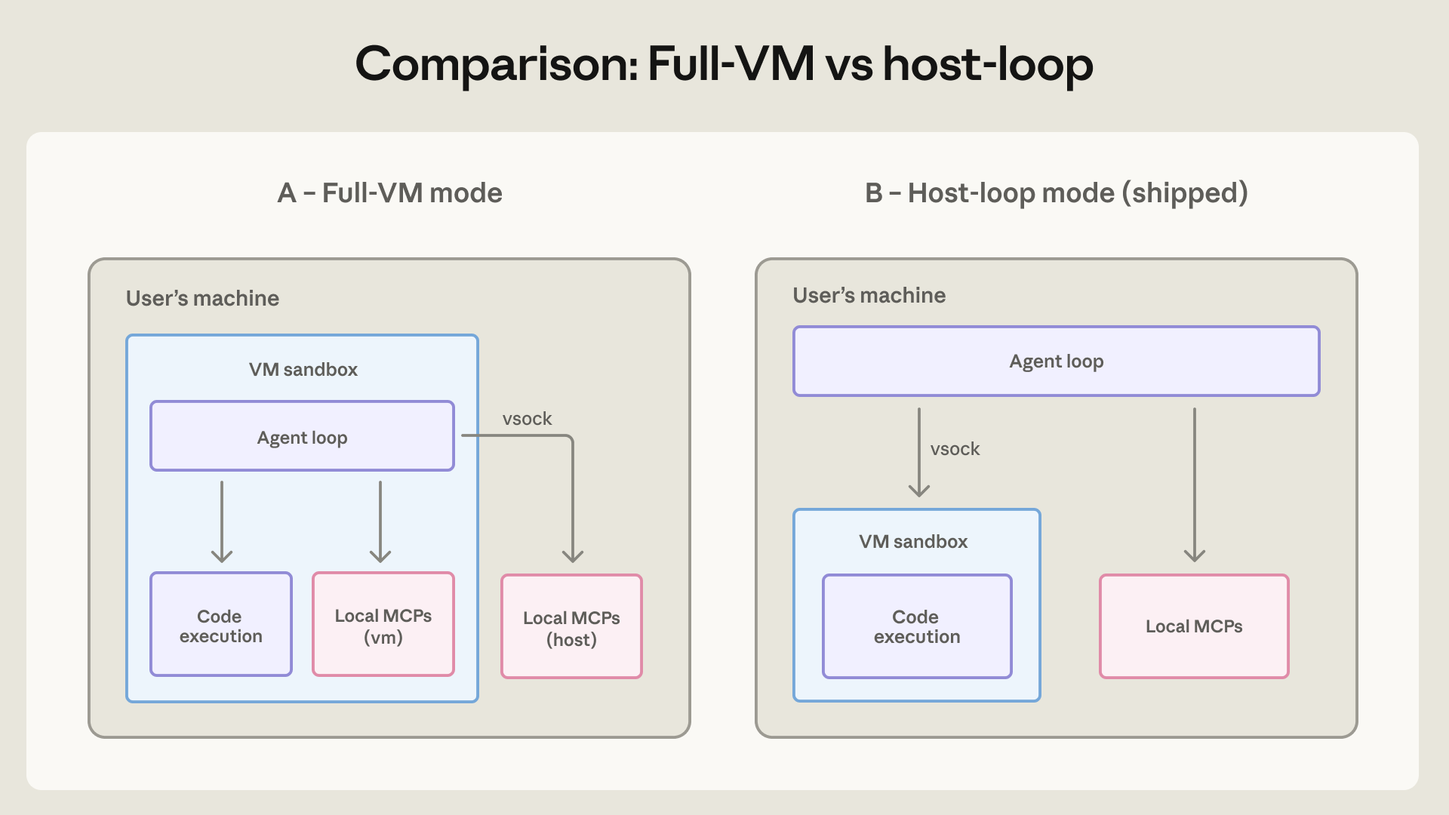
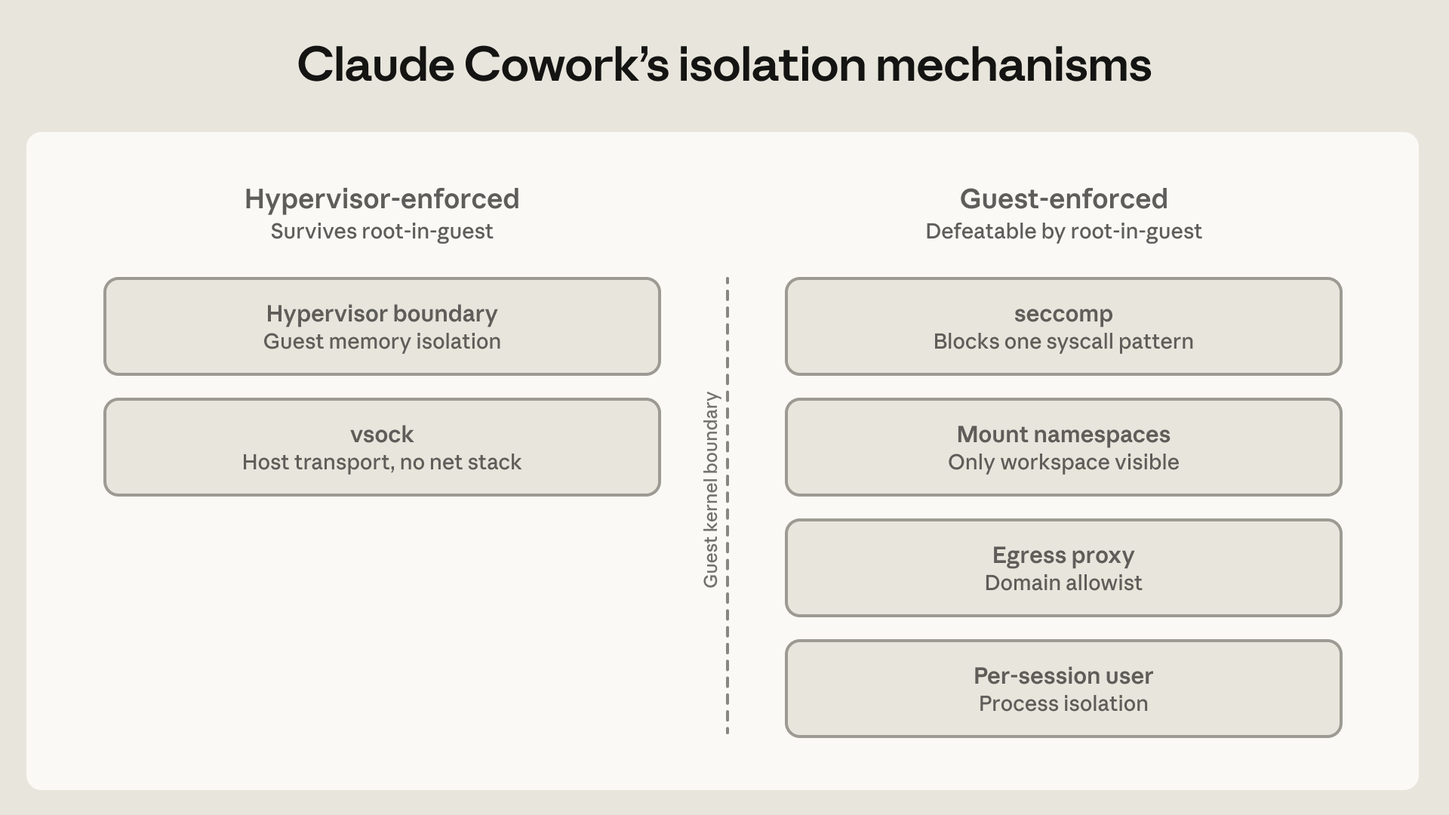
vault: capture Autobrowse (Browserbase) article from @kylejeong X post

diff --git a/Agents/Skills/Autobrowse iterates browser agents to convergence then graduates the winning strategy into a durable SKILL.md, ending the per-site rediscovery tax.md b/Agents/Skills/Autobrowse iterates browser agents to convergence then graduates the winning strategy into a durable SKILL.md, ending the per-site rediscovery tax.md
@@ -1,0 +1,319 @@
+---
+created: 2026-05-28
+description: Browserbase's Autobrowse workflow runs browser agents iteratively on a real task until the approach converges, then graduates the winning strategy into a human-readable SKILL.md file that any future agent or engineer can load and reuse — converting one expensive exploration run into a compounding shared library.
+source: https://x.com/kylejeong/status/2052103973377867913
+type: framework
+---
+
+## Key Takeaways
+
+- **The real bottleneck for browser agents is memory, not model capability** — agents re-discover every site from scratch on every run, paying the full exploration cost each time regardless of how capable the model gets. Autobrowse argues that [[most agent bottlenecks are actually memory problems not model or orchestration problems]] applies specifically to browser automation: even a perfect model still has to re-discover undocumented APIs, JS-gating patterns, and multi-step flows unless past discoveries are persisted somewhere humans and agents can both read.
+
+- **Autobrowse's iteration loop produces a SKILL.md, not a trace or embedding** — the 7-step loop (Objective → Run → Study → Iterate → Converge → Graduate) outputs a readable markdown file, which is what makes it viable as an enterprise handoff. An engineer can read it; a non-technical PM can roughly follow it. This contrasts with [[trace learning turns agent execution history into reusable strategies that compound performance over time]] (trace-based retrieval) and [[memento-skills turns executable skill folders into evolving non-parametric memory that lets frozen LLMs learn continuously from deployment]] (frozen model external memory) — Autobrowse skips vector retrieval entirely and produces a directly executable artifact. Same artifact shape as [[Browserbase's bb agent generalizes knowledge work through four building blocks - sandbox, credential-brokering proxy, loadable skills, and Slack|bb's loadable skills]].
+
+- **Regime-matching discipline prevents Autobrowse from becoming a hammer** — it is the wrong tool for deterministic parsing. Four iterations and ~$24 spent on a 167-row static HTML state catalog proved this: the model's per-turn output cap truncated its reasoning on a problem that didn't reward cleverness. The lesson gets baked into the graduated skill itself as a "probe with fetch first" rule. Similar to [[autoresearch can auto-improve any agent skill by testing and scoring in a loop|Karpathy's autoresearch]], but Autobrowse explicitly codifies the escape hatch to deterministic code.
+
+- **The Craigslist benchmark shows correctness is the real win over speed and cost** — the no-skill run ($0.22, 71s) returned 0 neighborhood-matched results for 60 city-wide noise listings; the graduated skill ($0.12, 27s) returned 2 exact North Beach / Russian Hill matches. The cost and time improvements are meaningful, but the correctness gain — discovering the undocumented `sapi.craigslist.org` JSON API and the lat/lon bbox filter — is what the skill preserved for every future run. See also [[EvoSkill discovers reusable agent skills through iterative failure analysis outperforming static prompts and transferring zero-shot]] for the failure-analysis parallel.
+
+- **Human-authored and Autobrowse-authored skills are the same artifact type** — once a skill graduates, nothing about the agent's execution cares whether a human or another agent wrote it. This makes Autobrowse a factory for browser capabilities that scales beyond individual engineering bandwidth, and points toward recursive self-improvement: the same loop that learns Craigslist can be applied to improve Autobrowse's own harness. The same thesis appears in [[The bitter lesson of agent harnesses is your helpers are abstractions too - Browser-Use ships a 600-line CDP + SKILL.md harness|Browser-Use's SKILL.md harness]].
+
+## External Resources
+
+- [Embedded tweet (Autobrowse demo)](https://x.com/i/status/2047100550446280792) — short demo embedded in the article showing Autobrowse in action
+- [Browserbase bb agent post](https://x.com/kylejeong/status/2044878529666662616) — Kyle Jeong's earlier article on how every internal Browserbase workflow runs through one generalist agent that loads markdown skills on demand
+- [Public Browse CLI skills repo](https://x.com/kylejeong/status/2052103973377867913) — the public directory of graduated browser skills referenced in the article
+
+## Original Content
+
+> [!quote]- Source Material
+> **@kylejeong (Kyle Jeong) — 2026-05-06**
+> **Article: Autobrowse: The Mythos moment for Browser Agents is here**
+>
+> TL;DR Browser agents have an amnesia problem. They re-discover every site from scratch on every run, paying the full discovery tax forever. Autobrowse fixes that by letting an agent iterate on a real task until it converges, then graduating the winning approach into a durable, reusable skill. That skill is memory the next agent, teammate, or customer can pick up and run without "re-learning" what's already been learned.
+>
+> Huge credit to @_shubhankar for creating Autobrowse internally, and helping write this article.
+>
+> ---
+>
+> ## The genius without a hippocampus
+>
+> If you've shipped a browser agent into production, you already know the shape of this problem.
+>
+> The first run on a new site is exciting. The agent wanders around, figures out the page, eventually completes the task. The second run looks almost identical. The hundredth run is depressing. By then you've paid for the same exploration a hundred times, the cost graph is a straight line going up, and you still don't have a clean artifact you can hand to a teammate to say "this is how we do this job."
+>
+> Real sites are messy. They render differently for different user agents, gate content behind JavaScript, hide the data you actually want behind an undocumented JSON endpoint, throw captchas when they don't recognize the session, and sometimes redesign their flow on a Tuesday. A generic agent loop copes with all of that fluently in the moment, then forgets everything once the session closes. The reasoning that solved Monday's problem evaporates along with the session.
+>
+> The real bottleneck for browser agents in production is memory, in a form humans and agents can both read and trust. Reasoning has stopped being the constraint.
+>
+> ---
+>
+> ## What is Autobrowse?
+>
+> Autobrowse is a workflow that uses AI to improve AI. You give an agent a real task on a real site. It runs the task end to end, studies the trace it produced, iterates on its strategy, and keeps going until the workflow becomes reliable rather than lucky. Once it converges, it graduates the winning approach into a reusable skill: a markdown file plus the deterministic glue (CLI calls, fetches, selectors, helper scripts) needed to repeat the job.
+>
+> [Embedded Tweet: https://x.com/i/status/2047100550446280792]
+>
+> This is similar to Karpathy's autoresearch harness, but for learning faster and cheaper browser skills. The first run is expensive on purpose, it's the run that pays for everything that comes after.
+>
+> The artifact is the point. Every Autobrowse run produces a durable markdown file any future agent can load and execute, on top of whatever value you got from the run itself.
+>
+> ---
+>
+> ## How it works:
+>
+> The learning loop:
+>
+> The core loop is simple:
+>
+> 1. Objective. Hand the agent a real task on a real site ("book a 7pm dinner reservation at this restaurant on OpenTable").
+>
+> 2. Run. Let the agent attempt the task end to end against a live browser.
+>
+> 3. Study. The agent reads its own trace. Where did it stall? Where did it guess? Where did it spend tokens it didn't need to?
+>
+> 4. Strategy. The run's "outer loop" maintains a strategy.md file, basically a scratchpad where the agent dumps observations after each iteration (what worked, what broke, what to try next, what to stop doing). On the next iteration, the agent reads strategy.md first and uses it as context, so improvements compound instead of resetting every run.
+>
+> 5. Iterate. Refine the strategy based on those notes. Drop steps that didn't pull weight. Lean on deterministic helpers (browse fetch, browse search, custom Python) wherever possible.
+>
+> 6. Converge. Once consecutive iterations stop yielding meaningful improvements in cost or turn count, short-circuit.
+>
+> 7. Graduate. Write out a SKILL.md plus any helper files into the public skills repo.
+>
+> In practice, we cap iterations low (~ 3 to 5) and short-circuit aggressively. The goal is a reliable, cheap path that's good enough to be reused, (technically short of any theoretical global optimum).
+>
+> *Autobrowse learning loop: Objective → Run → Study feeds into Iterate → Converge check → Graduate to SKILL.md*
+> ![[kylejeong-867913-001.jpg]]
+>
+> *Full loop with convergence gate: when consecutive runs stop improving on cost and turn count, the strategy graduates to SKILL.md + helpers in the public skills repo*
+> ![[kylejeong-867913-002.png]]
+>
+> The output?
+>
+> What comes out the other side is a small, readable file. No transcript, no vector of embeddings, no screenshot reel. Just markdown (just skim this):
+>
+> ```markdown
+> ---
+> name: "craigslist-search-listings"
+> title: "Craigslist Search Listings"
+> description: "Search Craigslist in a given city and category for listings matching a query, returning each listing's title, price, location, posting date, and listing URL."
+> website: "craigslist.org"
+> category: "marketplace"
+> tags: ["craigslist", "marketplace", "listings", "search"]
+> status: "autobrowsed-run-004 + prod-validated-002"
+> source: "autobrowse + browser-trace · 4 iters · converged 2026-04-30 · cross-region prod validation 2026-05-01 (NY/SF/Boston, cta+apa) · postal-override discovery 2026-05-01 (Chicago/NYC, mca+apa)"
+> updated: "2026-05-01"
+> recommended_method: "api"
+> alternative_methods:
+>   - method: "browser"
+>     rationale: "When the JSON API is rate-limited or blocked (rare — no auth or anti-bot today), fall back to browsing the city subdomain's /search/{category} page and extracting listings from the rendered text + anchor hrefs."
+> ---
+>
+> # Craigslist Search Listings — Browser Skill
+>
+> ## Purpose
+>
+> Return a list of Craigslist postings matching a query in a given city and category — title, price, location, posting time, lat/lon, posting ID, and canonical listing URL. Read-only; never posts or edits.
+>
+> ## When to Use
+>
+> - Daily / hourly monitoring of new listings matching a query.
+> - Bulk extraction across multiple cities or categories.
+> - Anywhere you'd otherwise scrape Craigslist HTML — the API is faster, cheaper, and structurally more reliable.
+>
+> ## Workflow
+>
+> The Craigslist web UI is a thin client over a public JSON API at `https://sapi.craigslist.org` — no auth, cookies, session state, or anti-bot stealth. Send a `Referer` header matching the target city subdomain; if your outbound IP is in a different region than the target city, add `postal=<zip>&search_distance=<mi>` to the query — the API geo-scopes by IP only when no `postal` is supplied (see the gotcha below). **A residential proxy is not required.** Lead with the API path; the browser path works as a fallback but pays a ~100× cost premium because the search page is fully JS-rendered (`browse snapshot` returns 0 a11y refs and harvesting per-listing URLs costs ~3 turns each).
+>
+> 1. **Pick city + category** (and optionally subarea). City is the Craigslist subdomain (`sfbay`, `newyork`, `losangeles`, `seattle`, ...). Category is the search-path abbreviation (`sss` for-sale-all, `cta` cars+trucks, `apa` apartments, `ggg` for-sale-by-owner, etc.). To scope to a specific subarea (city-within-region), prefix the category in `searchPath` — e.g. `searchPath=sfc/apa` for SF-proper apartments, `searchPath=eby/cta` for East Bay cars. Subarea codes are listed in each response's `data.decode.locations[i][2]`. Subarea-scoping is significantly more efficient than fetching region-wide and filtering client-side (e.g. `apa` returns 9,798 bay-wide vs. 253 for `sfc/apa`).
+>
+> 2. **First page**:
+>
+>
+> GET https://sapi.craigslist.org/web/v8/postings/search/full
+>
+> ?searchPath={cat}
+>
+> &query={q}
+>
+> &sort={date|rel|priceasc|pricedsc}
+>
+> &batch=1-0-360-1-0
+>
+> &lang=en&cc=us
+>
+> Referer: https://{city}.[craigslist.org/](http://craigslist.org/)
+>
+>
+>    Returns JSON with `data.totalResultCount`, `data.items[]`, and decode tables under `data.decode`. Confirm the response is scoped to the right region via `data.areas` (e.g. `{"1": {"name": "newyork"}}`) — if it shows the wrong city, add `postal=<zip>&search_distance=<mi>` (any ZIP in the target metro) to override the IP-based geo-scope.
+>
+>    **Common filter params** (append as query args; check `data.humanReadableParams` to confirm acceptance): `min_price`, `max_price`, `min_bedrooms`, `max_bedrooms`, `min_bathrooms`, `bundleDuplicates=1`, `hasPic=1`, `postal=<zip>`, `search_distance=<mi>`, `availabilityMode=available`, `auto_make_model=<text>`, `min_auto_year`/`max_auto_year`, `min_auto_miles`/`max_auto_miles`. Unrecognized params are silently dropped.
+>
+> 3. **Decode each item**. `data.items[]` is an array of positional arrays. **Critical: many fields are offsets / lookup keys, not absolute values** — always read against `data.decode.*`:
+>    - `item[0]` — `postingIdOffset`. Absolute id = `data.decode.minPostingId + item[0]`.
+>    - `item[1]` — `postedDateOffset` (seconds). Absolute epoch = `data.decode.minPostedDate + item[1]`.
+>    - `item[2]` — `categoryId` (integer). Maps to a 3-letter sub-category abbreviation (`cat3`) used in canonical URLs. The mapping is **not** in the response — it's a fixed Craigslist enum. Observed during iter-2 verification: `68 → bik` (bicycles), `93 → spo` (sporting goods), `122 → pts` (parts), `197 → bop` (bicycle parts/accessories). Other categories will need to be back-derived from the `data.decode` block or a click-through verification.
+>    - `item[3]` — price as integer (0 or missing for free items).
+>    - `item[4]` — `"locIdx:hoodDescIdx:hoodIdx~lat~lon"`. Look up `data.decode.locations[locIdx]` → `[1, city, subareaAbbr]`; `data.decode.locationDescriptions[hoodDescIdx]` → display location string; parse `lat~lon` for coordinates.
+>    - **Title** — last array element that is a plain string (i.e. not a tagged `[code, ...]` block). For `cta` (cars+trucks) this is `item[-1]`. For `apa` (apartments) and other housing categories, a trailing `[5, beds, sqft]` housing-meta block pushes the title earlier — iterate from the end and take the first plain string.
+>    - Tagged blocks `[code, value]` mid-array: `code === 5` is `[beds, sqft]` (housing categories); `code === 6` is the URL slug; `code === 10` is the formatted price string ("$1,350"); other codes carry image refs and metadata.
+>
+> 4. **Construct canonical post URL**:
+>
+>
+> https://{city}.[craigslist.org/{subareaAbbr}/{cat3}/d/{slug}/{postingId}.html](http://craigslist.org/{subareaAbbr}/{cat3}/d/{slug}/{postingId}.html)
+>
+>
+>    - `postingId` from step 3 (offset + minPostingId)
+>    - `subareaAbbr` from `data.decode.locations[locIdx][2]` (e.g. `nby`, `sby`, `sfc`, `eby`, `pen`)
+>    - `cat3` from the categoryId enum (step 3)
+>    - `slug` from the `[6, ...]` tagged block
+>
+>    **Wrong `cat3` will 404**. If you don't know the mapping for a categoryId, fall back to `https://{city}.craigslist.org/search/{cat}?postingId={postingId}` which redirects to the canonical URL.
+>
+> 5. **Paginate** (only if results > 360):
+>
+>
+> GET https://sapi.craigslist.org/web/v8/postings/search/batch
+>
+> ?batch=1-{OFFSET}-1080-1-0-{startTs}-{endTs}
+>
+> &cacheId={cacheId from step 2}
+>
+> Referer: https://{city}.[craigslist.org/](http://craigslist.org/)
+>
+>
+>    Increment `OFFSET` in steps of 1080. `startTs`/`endTs` are the `data.cacheTs` and current epoch.
+>
+> ## Site-Specific Gotchas
+>
+> - **Geo-redirect on bare domain**: `https://www.craigslist.org/` redirects to a city based on the request IP (in our trace, `provo.craigslist.org`). Always open `{city}.craigslist.org` directly.
+> - **API geolocates by request IP — `postal=<zip>&search_distance=<mi>` overrides it**: No auth, no cookies, no anti-bot — but if no `postal` is supplied, the API scopes results to the city corresponding to the request's source IP, not the `Referer` header (e.g. a NY query from an SF IP silently returns `{"1": {"name": "sfbay"}}` results). Adding `postal=<zip>` for any ZIP in the target metro plus `search_distance=<mi>` forces the result set to that region. Verified 2026-05-01 with direct curl from an SF IP returning correct Chicago (`postal=60601&search_distance=50`, 0.21s, 41 results) and NYC (`postal=10001&search_distance=10`, 2.19s, 475 results) listings. **A residential proxy is not required** — `bb fetch --proxies` *without* `postal` is also geo-locked to sfbay (proxy doesn't change the source-IP region for this API), and adding `postal` to a direct curl is ~8× faster than the proxy path (0.21s vs 1.63s on the same Chicago query). Always verify scope via `data.areas` in the response.
+> - **Snapshot returns 0 refs on `/search/`**: The search page is fully JS-rendered. Don't use `browse snapshot`/`click` to enumerate listings.
+> - **Compact response format**: `data.items[]` uses positional arrays + `data.decode.*` lookup tables to keep the response small. Don't expect named fields per item — decode by position.
+> - **Pagination batch sizes**: First page is ~360 (`batch=1-0-360-1-0`); subsequent batches are 1080 each (`batch=1-OFFSET-1080-1-0`).
+> - **Free items have no price**: `item[3]` may be `0` or absent.
+> - **Posting time precision**: The rendered page shows relative ("< 1 hr ago"); absolute epoch = `data.decode.minPostedDate + item[1]`.
+> - **`item[0]` is NOT the postingId** — it's an offset from `data.decode.minPostingId`. Naïvely treating `item[0]` as the postingId produces 404s.
+> - **`data.decode.locations` indexing is per-response, not stable.** Iter-3 saw `locations[1] → ["sfbay","sfc"]`; iter-4 saw `locations[1] → ["sfbay","eby"]` for the same city/query. The decode block is rebuilt per cache TTL — **always look up `locations[locIdx]` from the response in hand**, never cache or hardcode the table.
+> - **Neighborhood labels are unreliable**: `data.decode.locationDescriptions` varies per response and per category. The same neighborhood may appear under different label-table indices across responses, may be missing in some categories (e.g. "Russian Hill" shows up in `apa` but is absent from `cta` decode tables), and is sometimes replaced by a generic city-level label by the poster. For neighborhood-scoped searches, use **lat/lon bounding-box matching** on `item[4]`'s coordinates as a fallback or supplement to label-string matching. Example bbox for North Beach + Russian Hill: `lat 37.794–37.810, lon -122.425 to -122.404`.
+> - **Categories are an undocumented enum** — the response decode tables don't include the `categoryId → cat3` mapping; observed values across iters: `68→bik, 93→spo, 101→foa, 122→pts, 197→bop, 5→fua` (and likely many more for non-bicycle queries). The redirect URL `https://{city}.craigslist.org/search/{cat}?postingId={id}` is the safest fallback when an unknown categoryId is encountered.
+> - **Rate-limit self-imposed**: No formal block but Craigslist throttles aggre
+> ```
+>
+> If the agent discovered an undocumented JSON endpoint, that endpoint is in there. If a particular form needs a small wait before submission, that's in there too. If a domain-specific helper (`helpers/amazon.py`, `helpers/opentable.py`, `helpers/sf-portal.py`) is worth keeping around, it gets checked in next to the skill.
+>
+> This is the same shape we use inside `bb`, our internal generalist agent. In our post on [how we build agents at Browserbase](https://x.com/kylejeong/status/2044878529666662616), we wrote about how every internal workflow (feature requests, session investigations, PRs, sales triage) runs through one agent that loads small markdown skills on demand. The general loop stays simple. The domain knowledge lives in skills, where it can be read, edited, versioned, and reused.
+>
+> Autobrowse pushes that idea one layer further: the agent writes its own skill, learned by actually doing the task.
+>
+> The hand-written skills inside `browse` and the Autobrowse-graduated skills inside the public Browse CLI ecosystem are, importantly, the same kind of artifact. Once a skill exists, nothing about how an agent loads or runs it cares whether a human or another agent wrote it.
+>
+> ---
+>
+> ## What is it good at?
+>
+> Autobrowse shines on sites that genuinely require exploration.
+>
+> - Hidden or undocumented APIs that aren't visible from the rendered page but show up in network traffic.
+> - Heavy client-side rendering, where the "real" content only appears after a sequence of interactions.
+> - Multi-step login or wizard flows, where the right path isn't obvious from the first screen.
+> - Any UI where the shortest reliable path is non-trivial enough that a human reverse-engineering it would take a couple of hours.
+> - Token-saving opportunities where parts of the loop are redundant (e.g. skipping `browse screenshot` when the UI isn't changing meaningfully).
+>
+> For example, we used Autobrowse to play around with a federal grants portal and surface an undocumented JSON endpoint that returned every current grant in a single call. What looked like a 28-page scrape collapsed into a single `browse fetch`, and that discovery is now baked into the graduated skill so we never have to re-find it.
+>
+> This is the recurring pattern that makes the whole approach worth investing in: an agent tries something a person never would, and finds something a person would never see.
+>
+> ---
+>
+> ## A concrete benchmark: Craigslist
+>
+> A clear internal benchmark we've shared so far is Craigslist.
+>
+> Traditional Claude Code loop: ~$0.22, ~71s
+> Graduated Autobrowse skill: ~$0.12, 27s
+>
+> The shape matters more than the absolute numbers. The first run on the site costs about what you'd expect from a generic agent loop. The end skill changes the unit economics of every subsequent run by an order of magnitude or more, because it encodes the shortest reliable path the agent could find and reuses it instead of re-deriving it.
+>
+> We see the same shape on smaller tasks. On an early form-fill experiment, cost dropped from $1.40/run to $0.24/run in four iterations, just by letting the agent notice and remove the parts of its own approach that weren't pulling weight.
+>
+> *Craigslist benchmark: raw WebFetch run vs /craigslist-search-listings graduated skill — the key win is correctness (0 vs 2 real neighborhood matches), not just speed or cost*
+> ![[kylejeong-867913-003.jpg]]
+>
+> ---
+>
+> ## Where Autobrowse breaks
+>
+> It would be easy to oversell this. Autobrowse is genuinely strong on a specific shape of problem and genuinely the wrong tool on another. The discipline of not using Autobrowse is part of using it well.
+>
+> Autobrowse is not the right tool when the task is deterministic parsing. We learned this the hard way against a 167-row static HTML state catalog. The data was right there in the markup. No JavaScript, no auth, no anti-bot, just rows.
+>
+> We threw Autobrowse at it anyway, because the framing of "let the agent figure it out" is seductive. Four iterations and ~$24 later, the loop still hadn't returned all 167 rows in a single output. The model's per-turn output cap kept truncating its reasoning, and the iteration loop kept trying to be clever about a problem that didn't reward cleverness.
+>
+> Once we recognized the regime mismatch, the agent pivoted to ~200 lines of deterministic Python with `browse fetch` and BeautifulSoup. Sub-second runtime, zero inference cost, all 167 rows surfaced.
+>
+> The lesson got written into the skill itself:
+>
+> ```bash
+> # Step 1: probe with fetch first.
+> browse fetch "<https://example.gov/programs>"
+> # If the data comes back cleanly in the response, write the parser.
+> # If the response is empty / dynamic / gated, escalate to Autobrowse.
+> ```
+>
+> Browser agents come in different agency levels, from a static script with no LLM in the loop, through router-style and tool-using agents, all the way up to fully autonomous loops that can spawn other agents and define their own tools. Choosing the right level is a real engineering decision.
+>
+> Autobrowse sits at the high-agency end of that spectrum, and like any high-agency tool, you reach for it once the cheaper, more deterministic options have given up.
+>
+> ---
+>
+> ## Why this changes workflows
+>
+> A skill operates as a customer handoff, with all the weight that implies.
+>
+> Today, when an agent succeeds at a job, the customer's engineering team gets a trace, maybe a session replay, maybe a paragraph of natural-language reasoning. None of those are legible to the people who actually own the workflow.
+>
+> A skill is legible. It's durable, debuggable, human-auditable, and ownable. An engineer can read it, edit it, and commit it. A non-engineer (a technical PM, a VP of technology, a grants manager who knows their portal inside out) can also read it and roughly understand what the agent is doing without ever touching code.
+>
+> We go from "just trust the agent's output" to "read the agent's playbook." That, in our view, is the thing that makes browser agents robust enough to live inside a serious enterprise workflow rather than awkwardly next to it.
+>
+> The compounding effect matters too. Each new site an agent encounters yields one more durable skill. The library grows. The agent gets cheaper and faster on the long tail of repetitive workflows because it stops paying the discovery tax.
+>
+> Autobrowse already functions as a factory for browser-agent capabilities, well beyond what any single agent could ship on its own. A single Autobrowse skill is useful. A growing public directory of them, accessible to anyone running a browser agent, is the actual prize.
+>
+> ---
+>
+> ## What we're working on next
+>
+> **Smarter stopping**
+>
+> Right now we cap iterations at a small number and short-circuit when consecutive runs converge in cost and turn count. It's a reasonable heuristic, but a blunt one. We're letting the agent reason about its own convergence more explicitly, comparing not just cost and turns but the structure of its trace across runs.
+>
+> Some of Autobrowse's most useful wins (like the federal-portal JSON endpoint) come from the agent randomly varying its approach and stumbling onto a much shorter path. We don't want to optimize that variance away too aggressively.
+>
+> **Better priors about how to explore**
+>
+> We want to make sure the agent reaches for our `fetch` and `search` primitives before spawning a full browser session. A lot of what looks like exploration can be answered with one fetch.
+>
+> For more advanced tasks, it's reasonable to let the agent inspect browser traces, network events, and CDP logs so it can discover internal APIs by watching network requests rather than guessing at them from the rendered DOM.
+>
+> **Recursive Autobrowse**
+>
+> The most exciting direction is recursive: Autobrowse improving Autobrowse. Today the iteration loop, the convergence heuristic, and the skill template are mostly hand-crafted. The same way we use Autobrowse to graduate skills for individual sites, we can use it to graduate improvements to its own harness.
+>
+> Better prompts for the iteration step. Better priors for which primitives to reach for first. Better templates for what the final skill should look like for a given class of task.
+>
+> **The bigger picture**
+>
+> A dominant story about browser agents right now is that they'll get good when the underlying models get good. We're one Anthropic or OpenAI release away from agents that just work on the web. We don't entirely buy that.
+>
+> Even a perfect model still has to discover (on every new site) what a perfect model would already know if it had been there before. Without a place to put what the agent learns, every run is a fresh start.
+>
+> The real bottleneck is memory, in a form humans and agents can both understand and trust.
+>
+> → Kyle
+>
+> ---
+>
+> Engagement: 881 likes | 67 retweets | 21 replies
+> [Original post](https://x.com/kylejeong/status/2052103973377867913)

diff --git a/Agents/moc - Agents.md b/Agents/moc - Agents.md
@@ -182,6 +182,7 @@ Agent skill design, authoring, testing, and lifecycle management. SKILL.md patte
 - [[predict-RLM uses GEPA to recursively optimize agent skills reaching SpreadsheetBench top-5 as open source]]
 - [[GEPA prompt optimizer beats reinforcement learning with 35x fewer rollouts by reflecting on natural-language execution traces]] — Agrawal/Khattab et al. (arXiv:2507.19457): reflective Genetic-Pareto prompt evolution; outperforms GRPO by up to 20% with up to 35× fewer rollouts and beats MIPROv2 by 10pp; Pareto-front candidate sampling, cross-model prompt transfer, instruction-only optimization beating few-shot
 - [[dspy-agent-skills shows GEPA only improves when there is failure signal - 1.2B models gain 25 points where 8B+ no-op]] — Bryan Young's three free-tier example runs (RAG QA, math, typed invoice extraction) surface GEPA's saturation behavior: the optimizer correctly no-ops when the baseline leaves nothing to improve, so demos and production runs both need task difficulty matched to model capability or the budget is wasted; also documents the metric-as-lever pattern (`dspy.Prediction(score, feedback)` where feedback names the failing axis is what the reflection LM acts on)
+- [[Autobrowse iterates browser agents to convergence then graduates the winning strategy into a durable SKILL.md, ending the per-site rediscovery tax]] — Kyle Jeong (Browserbase): 7-step loop (Objective → Run → Study → Iterate → Converge → Graduate) produces a human-auditable SKILL.md from real browser traces; Craigslist benchmark shows correctness win (0 → 2 neighborhood matches) matters more than cost/speed savings; regime discipline prevents using high-agency loops on deterministic parsing tasks
 
 ### Tooling
 Agent tool design, context engineering, prompt caching, skill architectures, search strategies, progressive disclosure, and general patterns for how agents interact with tools and manage context. The broadest subfolder — if a note is about *how agents use tools or manage their context window*, it goes here.
